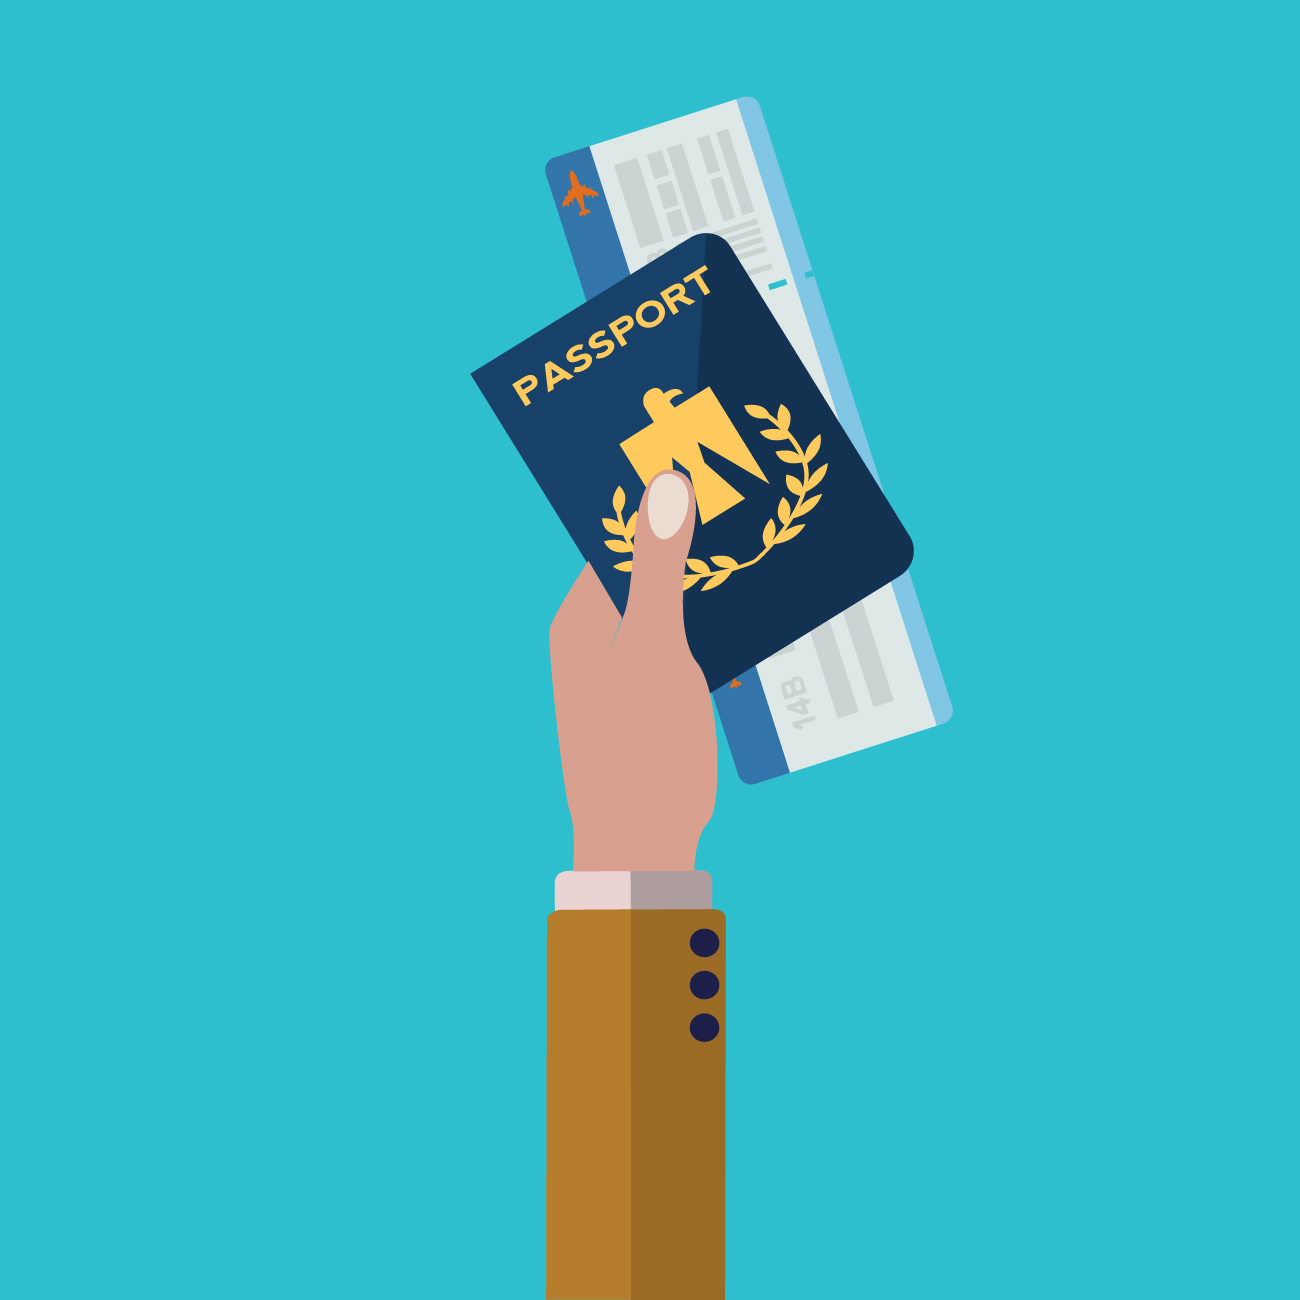
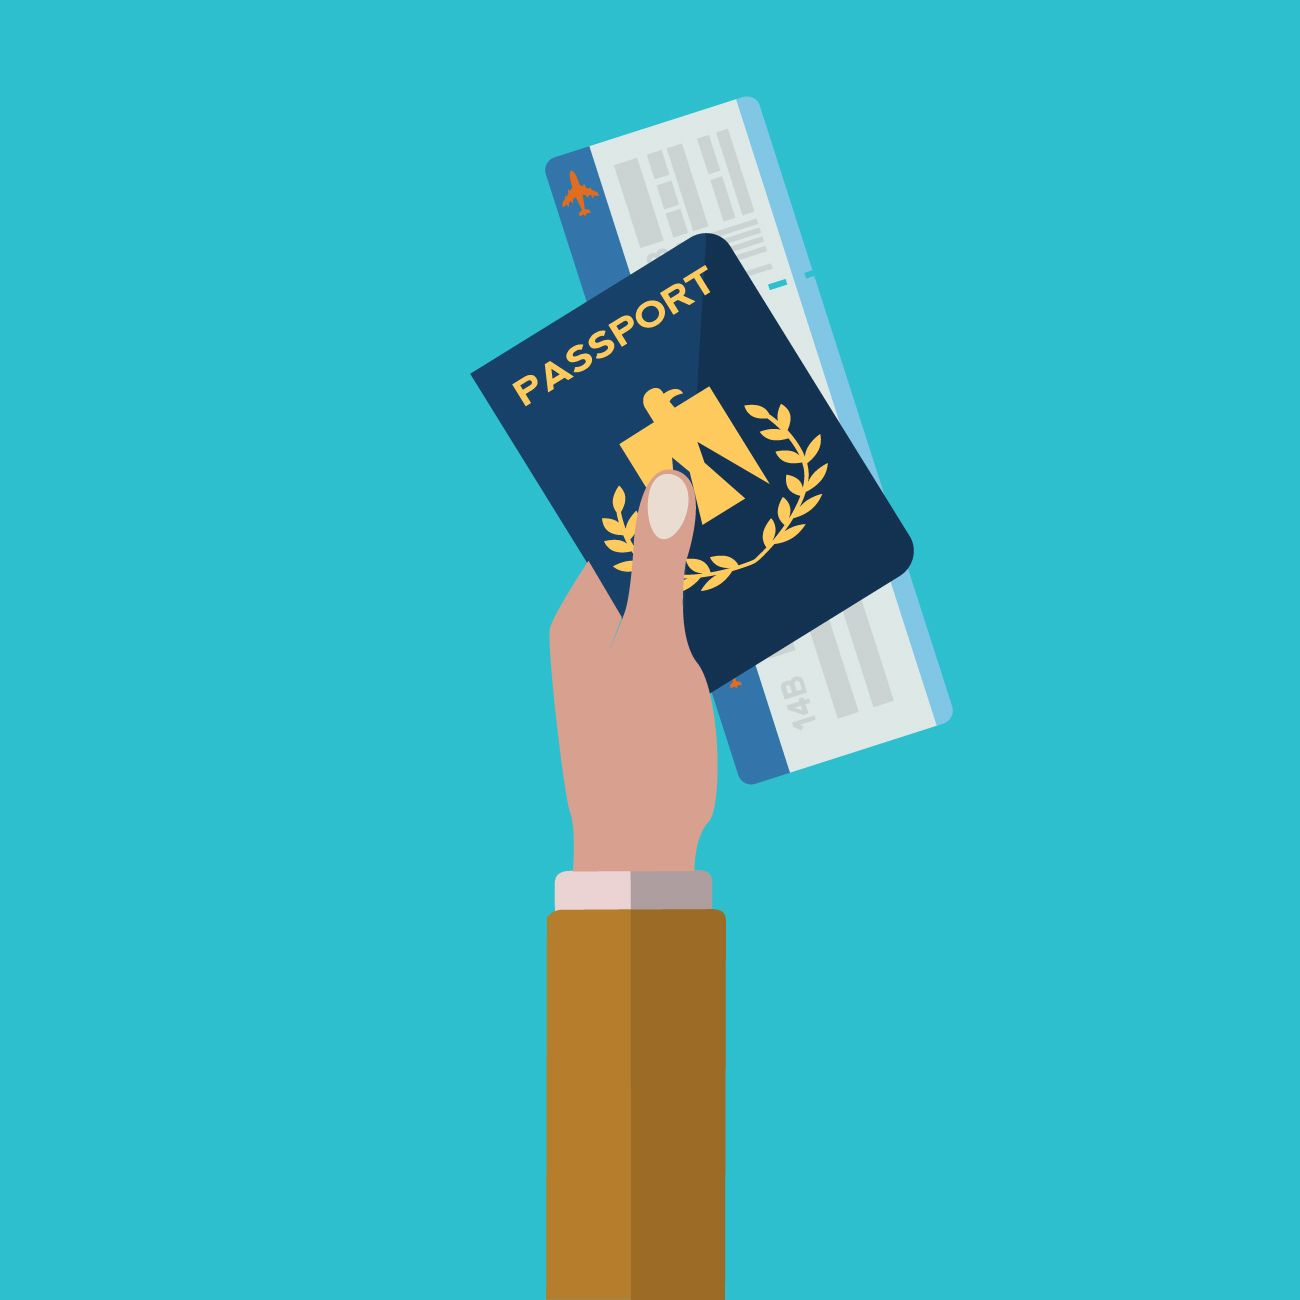
Fix up Teaser background images, add texts

diff --git a/components/NewEnrollment/children/Teaser.js b/components/NewEnrollment/children/Teaser.js
@@ -4,11 +4,8 @@ import { ImageBackground } from 'react-native';
 
 import {
   Button,
-  Container,
   Text,
-  Footer,
   Content,
-  Header,
   View,
 } from 'native-base';
 
@@ -25,7 +22,7 @@ export default class Teaser extends Component {
     dismissTeaser: PropTypes.func.isRequired,
   }
 
-  render() {
+  renderFooter() {
     const { dismissEnrollment, dismissTeaser } = this.props;
 
     const footerStyle = {
@@ -34,30 +31,81 @@ export default class Teaser extends Component {
       justifyContent: 'center',
     };
 
-    const body = (
-      <Container>
-        <Content />
-        <View {...footerStyle} style={{}}>
-          <Button info onPress={dismissEnrollment} style={{marginTop: 5, marginRight: 20}}>
-            <Text>Demo</Text>
-          </Button>
-          <Button info onPress={dismissTeaser} style={{marginTop: 5}}>
-            <Text>Register</Text>
-          </Button>
-        </View>
-      </Container>
+    return (
+      <View {...footerStyle} style={{}}>
+        <Button info onPress={dismissEnrollment} style={{marginTop: 5, marginRight: 20}}>
+          <Text>Demo</Text>
+        </Button>
+        <Button info onPress={dismissTeaser} style={{marginTop: 5}}>
+          <Text>Register</Text>
+        </Button>
+      </View>
     );
+  }
+
+  renderTexts(statement, quote) {
+    const statementStyle = {
+      color: '#305f91',
+      fontSize: 26,
+      fontWeight: '300',
+      marginTop: 40,
+      paddingHorizontal: 20,
+    };
+
+    const quoteStyle = {
+      color: '#ffffff',
+      fontFamily: 'Times New Roman',
+      fontSize: 30,
+      fontStyle: 'italic',
+      fontWeight: '800',
+      marginTop: 30,
+      paddingHorizontal: 20,
+      textAlign: 'right',
+    };
 
     return (
-      <Swiper showButtons={false}>
-        <ImageBackground style={{flex: 1}} source={passportImage}>
-          { body }
+      <Content>
+        <Text style={statementStyle}>{ statement }</Text>
+        <Text style={quoteStyle}>{ quote }</Text>
+      </Content>
+    );
+  }
+
+  render() {
+    return (
+      <Swiper>
+        <ImageBackground
+          imageStyle={{marginTop: 300}}
+          source={passportImage}
+          style={{flex: 1, backgroundColor: '#2dbfce'}}
+        >
+          { this.renderTexts(
+              'IRMA is like a digital passport on your phone. It puts you in control and keeps your personal details private and secure.',
+              '"I reveal my attributes"'
+          )}
+          { this.renderFooter() }
         </ImageBackground>
-        <ImageBackground style={{flex: 1}} source={shopImage}>
-          { body }
+        <ImageBackground
+          imageStyle={{marginTop: 100}}
+          source={shopImage}
+          style={{flex: 1, backgroundColor: '#abe3f4'}}
+        >
+          { this.renderTexts(
+              'Reveal what\'s relevant – and nothing more',
+              '"I\'m older than 18"'
+          )}
+          { this.renderFooter() }
         </ImageBackground>
-        <ImageBackground style={{flex: 1}} source={authImage}>
-          { body }
+        <ImageBackground
+          imageStyle={{marginTop: 100}}
+          source={authImage}
+          style={{flex: 1, backgroundColor: '#65b7cc'}}
+        >
+          { this.renderTexts(
+              'Prove it\'s you, gain access, forget passwords...',
+              '"It\'s me, log me in!"'
+          )}
+          { this.renderFooter() }
         </ImageBackground>
       </Swiper>
     );
